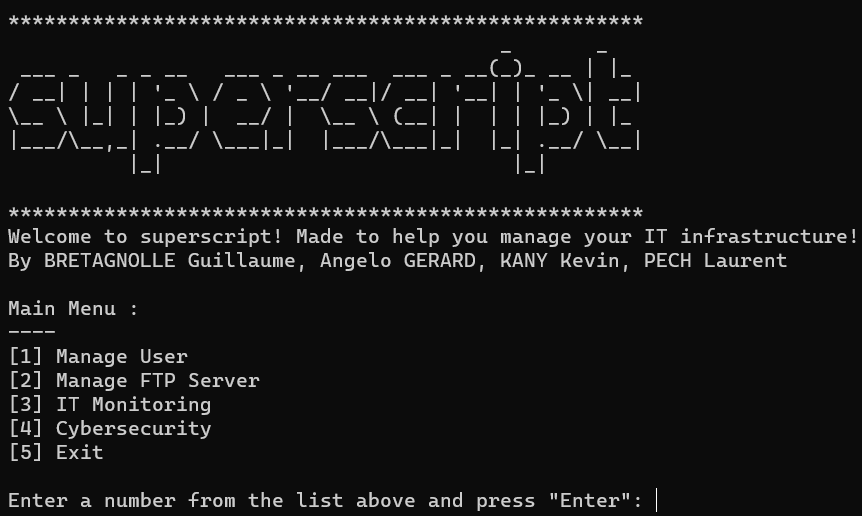
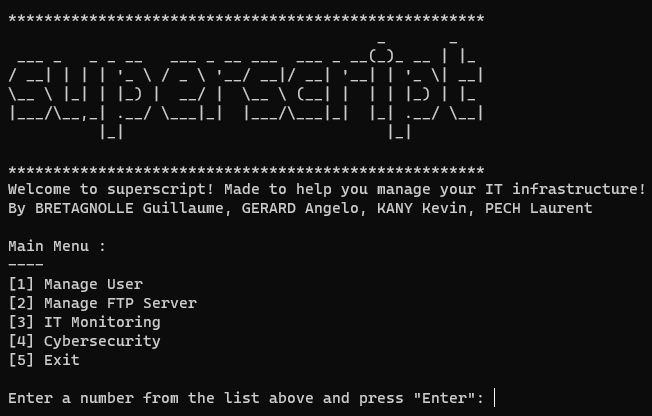
Fixed a typo from main menu and reuploaded screenshot accordingly

diff --git a/superscript/superscript.py b/superscript/superscript.py
@@ -3,7 +3,7 @@
 # ******************************************************************************
 #
 # Script Name: superscript.py
-# Version: 0.1 (Pre-alpha)
+# Version: 0.2 (Alpha)
 # Authors: BRETAGNOLLE Guillaume, GERARD Angelo, KANY Kevin, PECH Laurent
 # Creation date: 12 june 2021
 #
@@ -59,10 +59,10 @@ def main():
 *****************************************************""")
     if settings.isFr:
         print("Bienvenue sur superscript ! Fait pour vous aider à gérer votre infrastructure informatique !")
-        print("Par BRETAGNOLLE Guillaume, Angelo GERARD, KANY Kevin, PECH Laurent\n")
+        print("Par BRETAGNOLLE Guillaume, GERARD Angelo, KANY Kevin, PECH Laurent\n")
     else:
         print("Welcome to superscript! Made to help you manage your IT infrastructure!")
-        print("By BRETAGNOLLE Guillaume, Angelo GERARD, KANY Kevin, PECH Laurent\n")
+        print("By BRETAGNOLLE Guillaume, GERARD Angelo, KANY Kevin, PECH Laurent\n")
 
     if settings.isFr:
         menuchoice = func.myChoice("Menu principal", "Gérer les utilisateurs", "Gérer le serveur FTP", "Supervision", "Securité", "Quitter")
